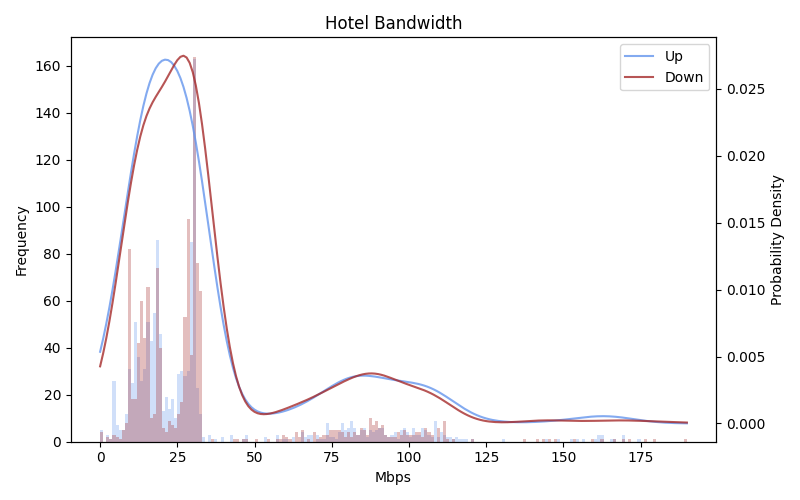
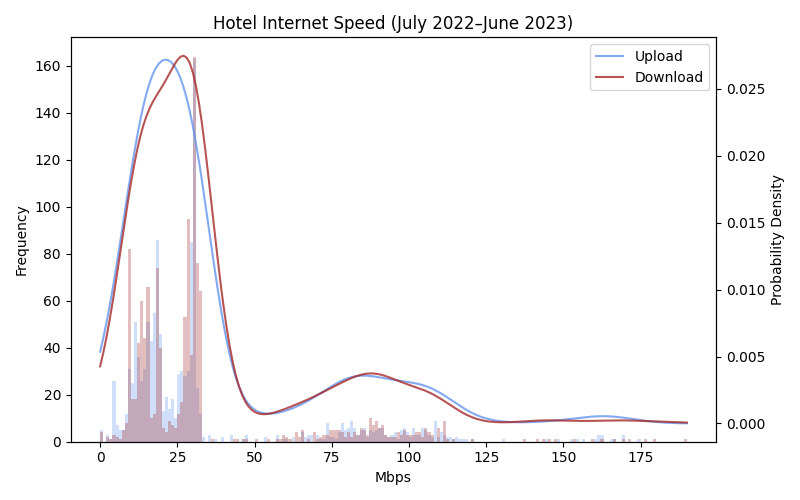
Update labels on chart

Changed region(s): [[0.25, 0.03, 0.7188, 0.06], [0.75, 0.09, 0.875, 0.18]]

diff --git a/plot_dist.py b/plot_dist.py
@@ -33,24 +33,24 @@ def plot_dist(start=None, show=True):
     ax2 = ax1.twinx()
 
     ax1.hist(df['upload_mbps'],
-        label="Up",
+        label="Upload",
         bins=bins_list,
         color=COLORS['up'],
         alpha=0.3
     )
     ax1.hist(df['download_mbps'],
-        label="Down",
+        label="Download",
         bins=bins_list,
         color=COLORS['down'],
         alpha=0.3
     )
     ax2.plot(bins_list, kde_up(bins_list),
-        label="Up",
+        label="Upload",
         color=COLORS['up'],
         alpha=0.8
     )
     ax2.plot(bins_list, kde_down(bins_list),
-        label="Down",
+        label="Download",
         color=COLORS['down'],
         alpha=0.8
     )
@@ -58,7 +58,7 @@ def plot_dist(start=None, show=True):
     # ax2.legend(loc='upper right')
     ax2.legend()
 
-    ax1.set_title("Hotel Bandwidth")
+    ax1.set_title("Hotel Internet Speed (July 2022–June 2023)")
     ax1.set_xlabel("Mbps")
     ax1.set_ylabel("Frequency")
     ax2.set_ylabel("Probability Density")
